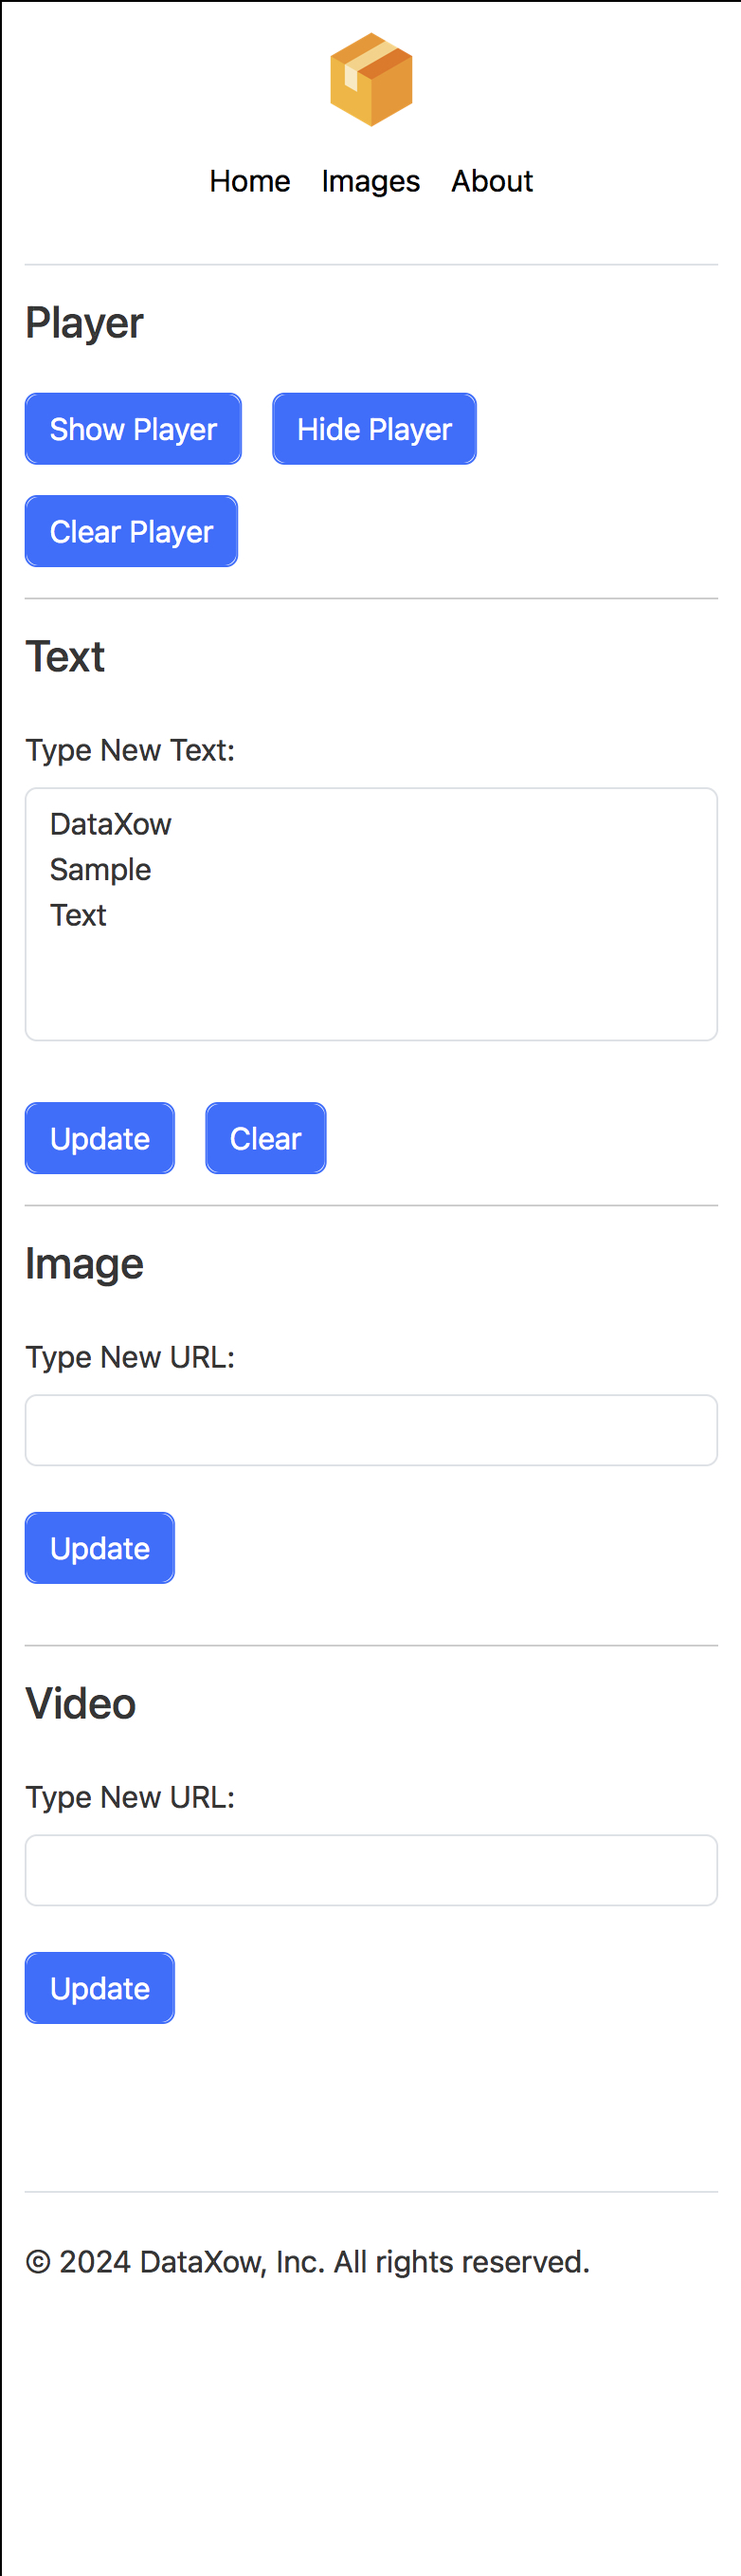
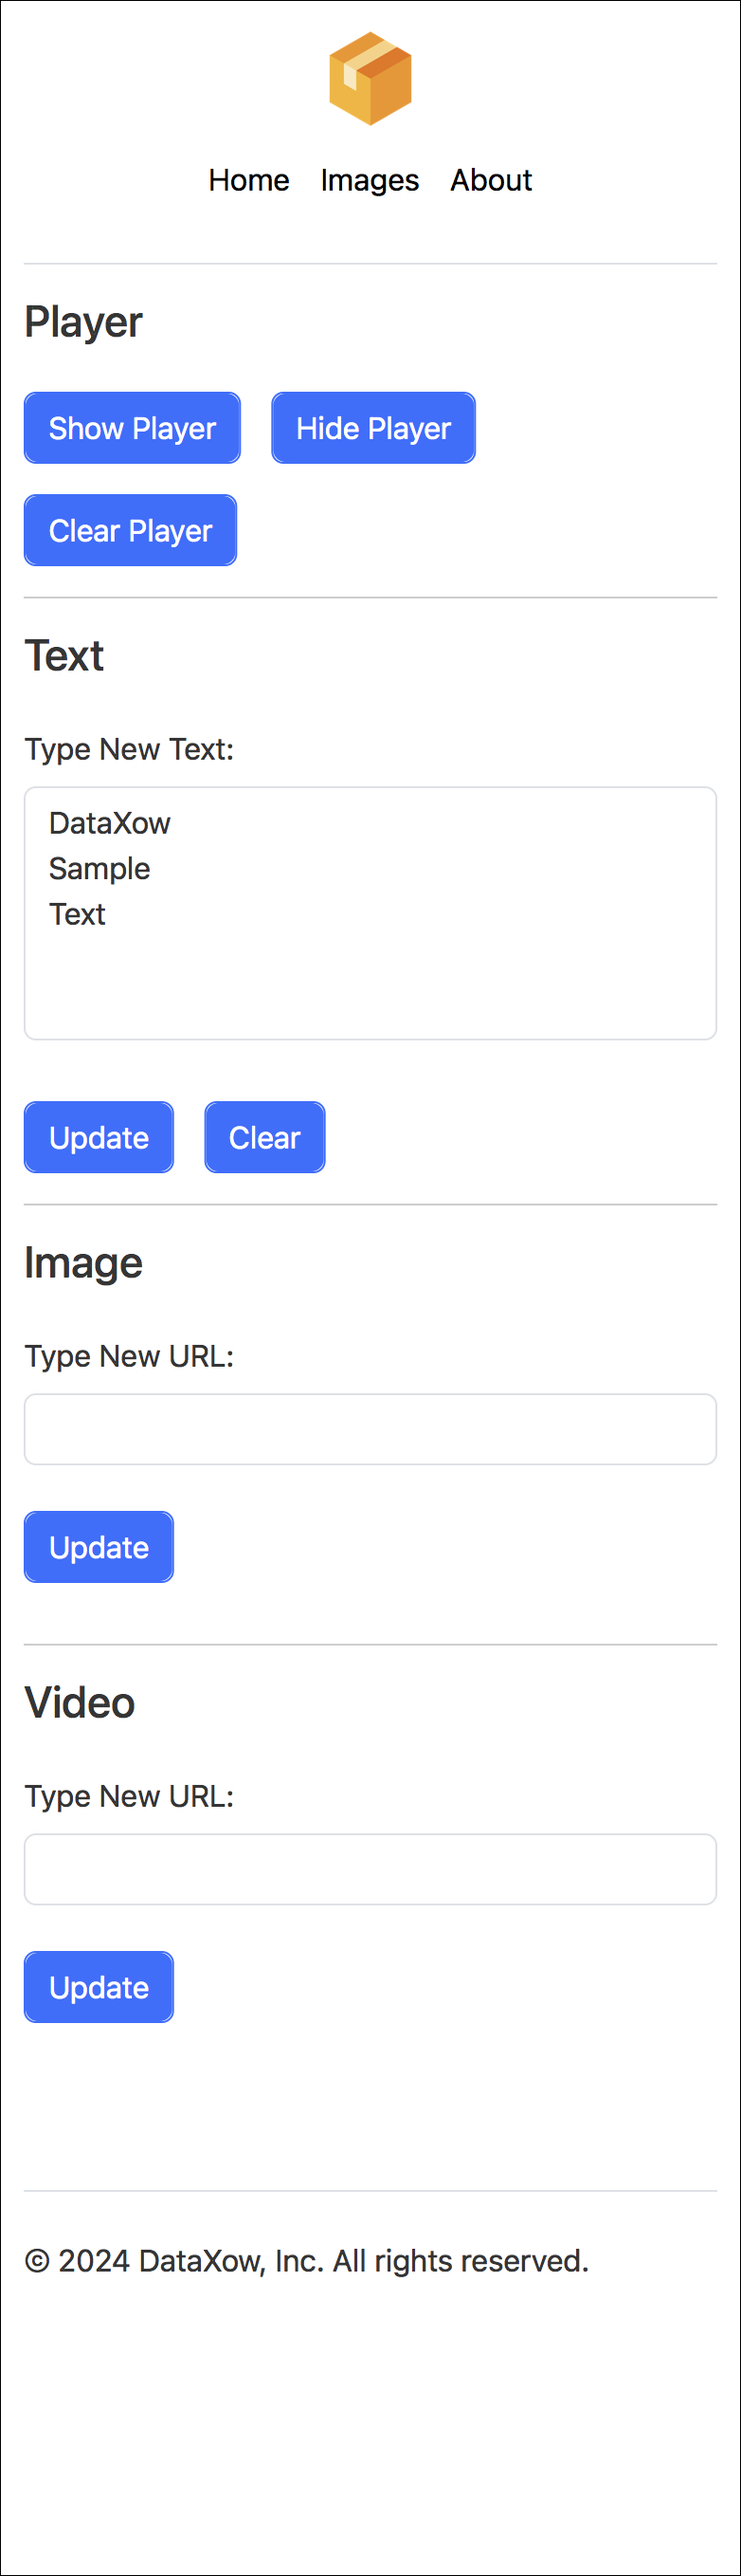
project updated

diff --git a/README.md b/README.md
@@ -47,4 +47,8 @@ macOS:
 
 **Mobile**
 
-![extras/images/ss-mobile1.png](extras/images/ss-mobile1.png)
+<p align="left">
+    <a href="extras/images/ss-mobile1.png" target="_blank" rel="noopener noreferrer">
+        <img width="250" src="extras/images/ss-mobile1.png" alt="Mobile 1">
+    </a>
+</p>
